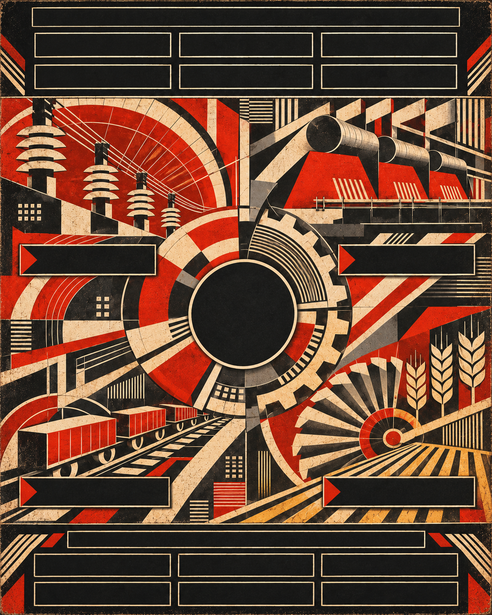
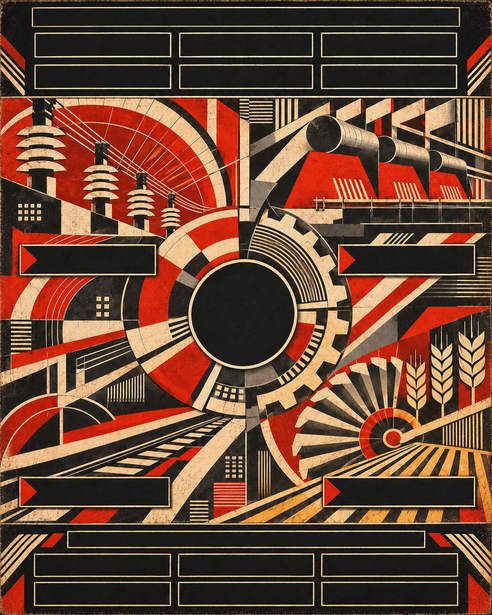
Animate four constructivist project sectors with textured moving parts

Changed region(s): [[0.0, 0.6488, 0.4573, 0.8033]]

diff --git a/tools/preview_constructivist_dashboard.py b/tools/preview_constructivist_dashboard.py
@@ -3,12 +3,14 @@
 This is not an in-game screenshot. Runtime bindings live in the generated GUI.
 """
 import json,re,html,base64
+from functools import lru_cache
 from pathlib import Path
 from PIL import Image,ImageDraw
 from national_plan_catalog import ROOT
 from national_plan_dashboard import ART,P,LABELS,SECTOR_POS,REGION_NAMES
 from hoi4_bitmap_fonts import render,measure
 from build_constructivist_dashboard import indicator, foreground, WHEEL_XY, PREVIEW_FRAMES
+from dashboard_sector_motion import MOTIONS,FRAMES
 
 OUT=ROOT/'output/constructivist_dashboard_20261112'
 COLOURS={'C':'#77c9db','Y':'#f0cb75','G':'#91ba80','R':'#ed543d','!':'#e3dfcf'}
@@ -16,6 +18,10 @@ VARS={'RUS_np_available':1248.50,'RUS_np_frozen':240,'RUS_np_income':1.28,'RUS_n
 for i in range(1,5):VARS.update({P+f'active_{i}':1,P+f'done_{i}':i+1})
 LOC={k:json.loads(v) for k,v in re.findall(r'^ ([\w.]+):0 (".*")$',(ROOT/'localisation/simp_chinese/RUS_national_plan_dashboard_l_simp_chinese.yml').read_text(encoding='utf-8-sig'),re.M)}
 HELPERS={'RUSNPScoreCaption':'一五计划分数','RUSNPScoreValue':'78.5','RUSNPStageCaption':'阶段 3','RUSNPRegionName':'全部地区','RUSNPSectorName':'全部工程'}
+
+@lru_cache(None)
+def atlas(name):
+    return Image.open(ROOT/ART/('sector_'+name+'.png')).convert('RGBA')
 
 def resolved(s):
     for k,v in HELPERS.items():s=s.replace('['+k+']',v)
@@ -31,6 +37,9 @@ def rich(im,x,y,text,font,w):
 def proof(frame=0):
     im=Image.new('RGBA',(504,620),(19,20,18,255))
     im.alpha_composite(Image.open(ROOT/ART/'background.png').convert('RGBA'),(6,0))
+    for name,(x,y,w,h,fps) in MOTIONS.items():
+        index=int(frame*fps/8)%FRAMES
+        im.alpha_composite(atlas(name).crop((index*w,0,(index+1)*w,h)),(x,y))
     im.alpha_composite(indicator('rotor',frame),WHEEL_XY)
     im.alpha_composite(foreground())
     d=ImageDraw.Draw(im)
@@ -55,6 +64,9 @@ def browser():
     s=['<!doctype html><html lang="zh-CN"><meta charset="utf-8"><meta name="viewport" content="width=device-width,initial-scale=1"><title>国家建设委员会 · 动态成品预览</title><style>',
        'body{margin:0;background:#101211;color:#e3dfcf;font-family:"Microsoft YaHei",sans-serif}main{width:504px;margin:20px auto}header{font-size:12px;color:#aaa;margin-bottom:10px;display:flex;align-items:center;gap:9px}select{background:#242722;color:#e3dfcf;padding:5px;border:1px solid #665f4c}.panel{position:relative;width:504px;height:620px;background:#141412;box-shadow:0 8px 50px #0008}.back{position:absolute;left:6px;top:0;width:492px;height:615px}.text{position:absolute;text-align:center;line-height:18px;pointer-events:none;white-space:nowrap;text-shadow:1px 1px #000}.hit{position:absolute;border:0;background:transparent;color:inherit;cursor:pointer;z-index:3}.hit:hover,.hit:focus-visible{background:#e1cb9d18;outline:1px solid #e1cb9d88}.hit.on{box-shadow:inset 0 -2px #df371d}.anim{position:absolute;pointer-events:none;animation:turn 24s linear infinite}.still{animation:none}#all:hover,#all:active,#all:focus-visible{background:transparent;outline:none;box-shadow:none}.pip{position:absolute;top:365px;width:6px;height:4px;background:#e1cb9d}@keyframes turn{to{transform:rotate(360deg)}}.ledger{position:absolute;z-index:10;left:36px;top:105px;width:432px;height:419px;box-sizing:border-box;background:#131412fc;border:2px solid #e1cb9d;padding:12px 25px;font-size:15px;line-height:21px}.ledger h3{font-size:16px;text-align:center;margin:0 0 13px;padding:0 0 12px;border-bottom:2px solid #df371d}.ledger button{display:block;width:136px;margin:10px auto 0;background:#282820;border:1px solid #e1cb9d;color:#e3dfcf;padding:3px;cursor:pointer}.ledger[hidden]{display:none}footer{font-size:12px;color:#b6ae9d;line-height:1.7;margin-top:10px}@media(max-width:530px){main{margin:10px auto;transform-origin:top left}}@media(prefers-reduced-motion:reduce){.anim{animation:none}}</style>',
        '<main><header>动态预览 · 演示数据 <label>状态 <select id="sample"><option value="1">建设进行中</option><option value="0">建设账本初建</option><option value="2">建设成果扩大</option></select></label></header><div class="panel" id="panel"><img class="back" src="../../gfx/interface/RUS_national_plan_dashboard/background.png" alt="构成主义国家建设界面">']
+    s.append('<style>.sectoranim{position:absolute;pointer-events:none;animation:sectorframes var(--duration) steps(64) infinite}.sectoranim.still{animation:none;background-position:0 0}.sectoranim.power.still{opacity:0}@keyframes sectorframes{to{background-position:var(--distance) 0}}@media(prefers-reduced-motion:reduce){.sectoranim{animation:none}}</style>')
+    for i,(name,(x,y,w,h,fps)) in enumerate(MOTIONS.items(),1):
+        s.append(f'<div class="sectoranim {"power" if i==1 else ""}" id="anim-sector-{i}" style="left:{x}px;top:{y}px;width:{w}px;height:{h}px;background-image:url(../../{ART}/sector_{name}.png);background-size:{w*FRAMES}px {h}px;--distance:-{w*FRAMES}px;--duration:{FRAMES/fps}s"></div>')
     s.append(f'<img class="anim" id="anim-rotor" src="../../{ART}/wheel.png" style="left:136px;top:202px;width:224px;height:224px" alt="旋转传动轮">')
     s.append(f'<img src="../../{ART}/foreground.png" style="position:absolute;left:0;top:0;width:504px;height:620px;pointer-events:none" alt="固定分数盘">')
     for i in range(6):s.append(f'<i class="pip" id="pip-{i}" style="left:{216+i*11}px"></i>')
@@ -68,14 +80,14 @@ def browser():
     for i,name in enumerate(REGION_NAMES):button(f'r-{i+1}',41+i%3*144,554+i//3*29,136,24,'筛选'+name)
     s.append('<section class="ledger" id="ledger" hidden><h3>国家建设账本</h3><div id="ledger-content"></div><button id="close">收起账本</button></section></div><footer id="filter-note">点击四个产业标牌或下方地区切换筛选；点击中央分数恢复全部。<br>点击标题展开账本。此页用于查看动效与排版，游戏内显示真实存档数值。</footer></main>')
     s.append('<script>const templates='+json.dumps({r[0]:LOC[r[6]] for r in LABELS},ensure_ascii=False)+';const ledgerTemplate='+json.dumps(LOC[P+'ledger_body'],ensure_ascii=False)+';const base='+json.dumps(VARS)+';const regions='+json.dumps(['全部地区']+REGION_NAMES,ensure_ascii=False)+';const sectors='+json.dumps(['全部工程']+[LOC[P+f'sector_{i}'] for i in range(1,5)],ensure_ascii=False)+';')
-    s.append(r'''let region=0,sector=0,state=1;const el=id=>document.getElementById(id);function formatted(s,v){s=s.replace(/\[RUSNPScoreCaption\]/g,state?'一五计划分数':'预备建设分数').replace(/\[RUSNPScoreValue\]/g,(state?v.RUS_first_five_year_plan_score:0).toFixed(1)).replace(/\[RUSNPStageCaption\]/g,state?'阶段 '+v.RUS_first_five_year_plan_stage:'计划未启动').replace(/\[RUSNPRegionName\]/g,regions[region]).replace(/\[RUSNPSectorName\]/g,sectors[sector]);s=s.replace(/\[\?([\w]+)\|(%?)(\d+)\]/g,(_,k,p,n)=>((v[k]||0)*(p?100:1)).toFixed(+n)+(p?'%':''));return '<span>'+s.replace(/§([CYGR!])/g,(_,c)=>'</span><span style="color:'+({C:'#77c9db',Y:'#f0cb75',G:'#91ba80',R:'#ed543d','!':'#e3dfcf'}[c])+'">').replace(/\n/g,'<br>')+'</span>'}function update(){let v={...base};if(state===0)Object.assign(v,{RUS_np_available:1200,RUS_np_frozen:0,RUS_np_active:0,RUS_np_trains:0,RUS_np_rail_display:0,RUS_np_spent:0,RUS_np_free_slots:7,RUS_first_five_year_plan_score:0,RUS_first_five_year_plan_stage:0});if(state===2)Object.assign(v,{RUS_np_available:2634.75,RUS_np_frozen:420,RUS_np_active:6,RUS_np_trains:90,RUS_np_rail_display:2.5,RUS_np_spent:1480,RUS_np_free_slots:1,RUS_first_five_year_plan_score:136.5,RUS_first_five_year_plan_stage:5});for(let i=1;i<=4;i++){v['RUS_np_ui_active_'+i]=state?(region?(i===((region-1)%4+1)?1:0):(state===2&&i<3?2:1)):0;v['RUS_np_ui_done_'+i]=state?(region?i:i+1+(state===2?3:0)):0;el('s-'+i).classList.toggle('on',sector===i);el('s-'+i).setAttribute('aria-pressed',sector===i)}for(const [k,t] of Object.entries(templates))el(k).innerHTML=formatted(t,v);for(let i=1;i<=6;i++){el('r-'+i).classList.toggle('on',region===i);el('r-'+i).setAttribute('aria-pressed',region===i);el('pip-'+(i-1)).style.display=i<=v.RUS_first_five_year_plan_stage?'block':'none'}el('anim-rotor').classList.toggle('still',!state);el('ledger-content').innerHTML=formatted(ledgerTemplate,v)}el('ledger-toggle').onclick=()=>el('ledger').hidden=!el('ledger').hidden;el('close').onclick=()=>el('ledger').hidden=true;el('all').onclick=()=>{region=sector=0;update()};for(let i=1;i<=6;i++)el('r-'+i).onclick=()=>{region=region===i?0:i;update()};for(let i=1;i<=4;i++)el('s-'+i).onclick=()=>{sector=sector===i?0:i;update()};el('sample').onchange=e=>{state=+e.target.value;update()};update();</script></html>''')
+    s.append(r'''let region=0,sector=0,state=1;const el=id=>document.getElementById(id);function formatted(s,v){s=s.replace(/\[RUSNPScoreCaption\]/g,state?'一五计划分数':'预备建设分数').replace(/\[RUSNPScoreValue\]/g,(state?v.RUS_first_five_year_plan_score:0).toFixed(1)).replace(/\[RUSNPStageCaption\]/g,state?'阶段 '+v.RUS_first_five_year_plan_stage:'计划未启动').replace(/\[RUSNPRegionName\]/g,regions[region]).replace(/\[RUSNPSectorName\]/g,sectors[sector]);s=s.replace(/\[\?([\w]+)\|(%?)(\d+)\]/g,(_,k,p,n)=>((v[k]||0)*(p?100:1)).toFixed(+n)+(p?'%':''));return '<span>'+s.replace(/§([CYGR!])/g,(_,c)=>'</span><span style="color:'+({C:'#77c9db',Y:'#f0cb75',G:'#91ba80',R:'#ed543d','!':'#e3dfcf'}[c])+'">').replace(/\n/g,'<br>')+'</span>'}function update(){let v={...base};if(state===0)Object.assign(v,{RUS_np_available:1200,RUS_np_frozen:0,RUS_np_active:0,RUS_np_trains:0,RUS_np_rail_display:0,RUS_np_spent:0,RUS_np_free_slots:7,RUS_first_five_year_plan_score:0,RUS_first_five_year_plan_stage:0});if(state===2)Object.assign(v,{RUS_np_available:2634.75,RUS_np_frozen:420,RUS_np_active:6,RUS_np_trains:90,RUS_np_rail_display:2.5,RUS_np_spent:1480,RUS_np_free_slots:1,RUS_first_five_year_plan_score:136.5,RUS_first_five_year_plan_stage:5});for(let i=1;i<=4;i++){v['RUS_np_ui_active_'+i]=state?(region?(i===((region-1)%4+1)?1:0):(state===2&&i<3?2:1)):0;v['RUS_np_ui_done_'+i]=state?(region?i:i+1+(state===2?3:0)):0;el('s-'+i).classList.toggle('on',sector===i);el('s-'+i).setAttribute('aria-pressed',sector===i)}for(const [k,t] of Object.entries(templates))el(k).innerHTML=formatted(t,v);for(let i=1;i<=6;i++){el('r-'+i).classList.toggle('on',region===i);el('r-'+i).setAttribute('aria-pressed',region===i);el('pip-'+(i-1)).style.display=i<=v.RUS_first_five_year_plan_stage?'block':'none'}el('anim-rotor').classList.toggle('still',!state);for(let i=1;i<=4;i++)el('anim-sector-'+i).classList.toggle('still',!v['RUS_np_ui_active_'+i]);el('ledger-content').innerHTML=formatted(ledgerTemplate,v)}el('ledger-toggle').onclick=()=>el('ledger').hidden=!el('ledger').hidden;el('close').onclick=()=>el('ledger').hidden=true;el('all').onclick=()=>{region=sector=0;update()};for(let i=1;i<=6;i++)el('r-'+i).onclick=()=>{region=region===i?0:i;update()};for(let i=1;i<=4;i++)el('s-'+i).onclick=()=>{sector=sector===i?0:i;update()};el('sample').onchange=e=>{state=+e.target.value;update()};update();</script></html>''')
     (OUT/'interactive.html').write_text('\n'.join(s),encoding='utf8')
 
 if __name__=='__main__':
     OUT.mkdir(parents=True,exist_ok=True)
     im=proof();im.save(OUT/'finished_native.png');im.resize((1008,1240),Image.Resampling.NEAREST).save(OUT/'finished_2x.png')
-    frames=[proof(f) for f in range(PREVIEW_FRAMES)]
+    frames=[proof(f/2) for f in range(PREVIEW_FRAMES*2)]
     palette=frames[0].quantize(colors=256)
     frames=[frame.quantize(palette=palette,dither=Image.Dither.NONE) for frame in frames]
-    frames[0].save(OUT/'animated_preview.gif',save_all=True,append_images=frames[1:],duration=125,loop=0,optimize=True)
+    frames[0].save(OUT/'animated_preview.gif',save_all=True,append_images=frames[1:],duration=[60,60,60,70]*(len(frames)//4),loop=0,optimize=True)
     browser();print(OUT)

diff --git a/tools/dashboard_sector_motion.py b/tools/dashboard_sector_motion.py
@@ -1,0 +1,97 @@
+"""Animation packaging for ImageGen sector parts. No writes on import.
+
+Frame atlases use native frameAnimatedSpriteType; only visual state is read.
+Generated artwork remains untouched in sectors_v3. Transforms implement motion.
+"""
+from functools import lru_cache
+import math
+from PIL import Image, ImageDraw, ImageFilter
+from national_plan_catalog import ROOT
+
+SOURCE=ROOT/'tools/design/constructivist_dashboard_20261112'
+PARTS=SOURCE/'sectors_v3'
+FRAMES=64
+# x, y, width, height, fps. Keep every horizontal atlas below 16384 pixels.
+MOTIONS={
+ 'power_flow':(24,100,230,132,16),
+ 'rollers':(304,108,155,90,8),
+ 'freight':(6,360,248,120,16),
+ 'harvest':(352,390,92,92,8),
+}
+
+@lru_cache(None)
+def part(name):
+    with Image.open(PARTS/(name+'.png')) as im:img=im.convert('RGBA')
+    assert img.getchannel('A').getextrema()[0]==0,name
+    return img.crop(img.getchannel('A').getbbox())
+
+@lru_cache(None)
+def clean_background():
+    """Only adopt the generated empty-track patch; preserve every other pixel."""
+    original=Image.open(SOURCE/'backplate.png').convert('RGBA')
+    clean=Image.open(PARTS/'clean_track.png').convert('RGBA').resize(original.size,Image.Resampling.LANCZOS)
+    mask=Image.new('L',original.size)
+    d=ImageDraw.Draw(mask)
+    d.rectangle((20,910,518,1088),fill=255)
+    mask=mask.filter(ImageFilter.GaussianBlur(5))
+    # Labels and all artwork outside the train strip stay original.
+    merged=Image.composite(clean,original,mask)
+    return merged.resize((492,615),Image.Resampling.LANCZOS)
+
+@lru_cache(None)
+def freight_source():
+    sprite=part('wagon').rotate(5,resample=Image.Resampling.BICUBIC,expand=True)
+    return sprite.crop(sprite.getchannel('A').getbbox())
+
+def motion(name,frame):
+    x,y,w,h,_=MOTIONS[name]
+    t=(frame%FRAMES)/FRAMES
+    if name=='harvest':
+        # Rotate in the full-size artwork before resampling; no jagged pixel spin.
+        base=part('harvester').resize((352,352),Image.Resampling.LANCZOS)
+        layer=Image.new('RGBA',(368,368));layer.alpha_composite(base,(8,8))
+        return layer.rotate(-360*t,resample=Image.Resampling.BICUBIC).resize((w,h),Image.Resampling.LANCZOS)
+    im=Image.new('RGBA',(w,h))
+    if name=='rollers':
+        base=part('drum').resize((192,192),Image.Resampling.LANCZOS)
+        for cx,cy,ww,hh,phase in [(331,134,33,40,0),(388,161,24,29,.25),(441,179,17,21,.5)]:
+            rotated=base.rotate(-360*(t+phase),resample=Image.Resampling.BICUBIC)
+            cap=rotated.resize((ww*3,hh*3),Image.Resampling.LANCZOS).rotate(18,resample=Image.Resampling.BICUBIC,expand=True)
+            cap=cap.resize((round(cap.width/3),round(cap.height/3)),Image.Resampling.LANCZOS)
+            im.alpha_composite(cap,(round(cx-x-cap.width/2),round(cy-y-cap.height/2)))
+    elif name=='freight':
+        sprite=freight_source()
+        # Geometric spacing gives a continuous perspective train, one wagon
+        # replaces its predecessor per loop; offscreen entry/exit, no teleport.
+        for n in range(9,-3,-1):
+            scale=.62**(n-t)
+            width=round(145*scale)
+            if width<3 or width>650:continue
+            height=round(width*sprite.height/sprite.width)
+            car=sprite.resize((width,height),Image.Resampling.LANCZOS)
+            cx=254-185*scale;bottom=406+72*scale
+            im.alpha_composite(car,(round(cx-width/2)-x,round(bottom-height)-y))
+    elif name=='power_flow':
+        # Restrained highlights follow the printed wires, never neon globes.
+        layer=Image.new('RGBA',(w*3,h*3));d=ImageDraw.Draw(layer)
+        points=[(38,101),(102,160),(153,193),(212,211),(247,208)]
+        for wire in range(3):
+            pos=((t+wire*.19)%1)*4
+            for k in range(12):
+                u=pos-k*.022
+                if not 0<=u<4:continue
+                seg=int(u);f=u-seg;a,b=points[seg:seg+2]
+                px=a[0]+(b[0]-a[0])*f-x;py=a[1]+(b[1]-a[1])*f+wire*4-y
+                d.ellipse((px*3-1,py*3-1,px*3+2,py*3+2),fill=(242,211,161,round(205*(1-k/12))))
+        im=layer.resize((w,h),Image.Resampling.LANCZOS)
+    return im
+
+def export():
+    out={}
+    for name,(_,_,w,h,_) in MOTIONS.items():
+        assert w*FRAMES<=16384
+        atlas=Image.new('RGBA',(w*FRAMES,h))
+        for f in range(FRAMES):atlas.paste(motion(name,f),(f*w,0))
+        out['sector_'+name]=atlas
+        out['sector_'+name+'_idle']=motion(name,0) if name!='power_flow' else Image.new('RGBA',(w,h))
+    return out

diff --git a/tools/national_plan_dashboard.py b/tools/national_plan_dashboard.py
@@ -7,6 +7,7 @@ import json
 from hoi4_politics_blocks import parse
 from national_plan_catalog import ROOT, PROJECTS, REGIONS
 from national_plan import CAT, DEC, FX, b, sv, add, iff, ck
+from dashboard_sector_motion import MOTIONS, FRAMES
 
 P = 'RUS_np_ui_'
 ART = 'gfx/interface/RUS_national_plan_dashboard'
@@ -81,6 +82,9 @@ def augment(out):
         sprite('hit_'+name,'hit_'+name,3)
     sprite('wheel_static','wheel')
     sprite('foreground','foreground')
+    for name,(_,_,_,_,fps) in MOTIONS.items():
+        sprite('sector_'+name,'sector_'+name,FRAMES,True,fps)
+        sprite('sector_'+name+'_idle','sector_'+name+'_idle')
     # Continuous native UV rotation; retain original score face above it.
     # References: vanilla nationalfocusview.gfx, frontendmainview.gfx and
     # gfx/FX/sprite_animation.fxh (normal alpha blending).
@@ -100,6 +104,11 @@ def augment(out):
         name,x,y,w,h,font,key=row
         gui.append(f'instantTextBoxType = {{ name = "{name}" position = {{ x = {x} y = {y} }} font = "{font}" text = "{key}" maxWidth = {w} maxHeight = {h} format = center '+('pdx_tooltip = '+tooltip if tooltip else 'alwaystransparent = yes')+' }')
     icon('background',6,0,'background')
+    for i,(name,(x,y,_,_,_)) in enumerate(MOTIONS.items(),1):
+        icon(name+'_active',x,y,'sector_'+name)
+        icon(name+'_idle',x,y,'sector_'+name+'_idle')
+        triggers += [name+'_active_visible = { check_variable = { '+P+'active_'+str(i)+' > 0 } }',
+                     name+'_idle_visible = { NOT = { check_variable = { '+P+'active_'+str(i)+' > 0 } } }']
     icon('wheel_idle',136,202,'wheel_static')
     icon('wheel_active',136,202,'wheel_moving')
     triggers += ['wheel_active_visible = { check_variable = { RUS_np_active > 0 } }',

diff --git a/tools/test_national_plan_dashboard.py b/tools/test_national_plan_dashboard.py
@@ -66,11 +66,29 @@ class DashboardTests(unittest.TestCase):
                 self.assertEqual(animation.value('animationblendmode'),'"normal"')
             if path.endswith('hit_score.png'):
                 self.assertEqual(im.getchannel('A').getextrema(),(0,0))
+            if n.k=='frameAnimatedSpriteType':
+                self.assertEqual(frames,64)
+                self.assertEqual(n.value('looping'),'yes')
+                self.assertLessEqual(im.width,16384)
             im.close()
         loc=out['localisation/simp_chinese/RUS_national_plan_dashboard_l_simp_chinese.yml']
         for row in LABELS:self.assertIn(' '+row[6]+':0 ',loc)
         self.assertIn('RUS_first_five_year_plan_score|1',loc)
         self.assertIn('RUS_np_pending_plan_score|1',loc)
         self.assertEqual(out,render())
+
+    def test_sector_motion_only_runs_for_selected_regions_active_projects(self):
+        from dashboard_sector_motion import MOTIONS
+        node=parse(render()['common/scripted_guis/RUS_national_plan_dashboard.txt'])[0].v[0]
+        triggers={n.k:n for n in node.one('triggers').v}
+        m=Model();m.initialize()
+        for p in PROJECTS:
+            if p['region']==1:m.flags.add('RUS_np_'+p['key']+'_running')
+        for region in [0,1,2]:
+            m.vars['RUS_np_filter']=region;m.call('RUS_np_refresh')
+            for i,name in enumerate(MOTIONS,1):
+                active=m.vars.get(P+'active_'+str(i),0)>0
+                self.assertEqual(m.check(triggers[name+'_active_visible'].v),active)
+                self.assertEqual(m.check(triggers[name+'_idle_visible'].v),not active)
 
 if __name__=='__main__':unittest.main(verbosity=2)

diff --git a/tools/build_constructivist_dashboard.py b/tools/build_constructivist_dashboard.py
@@ -43,7 +43,9 @@ def indicator(name,f):
     return wheel().rotate(-360*f/PREVIEW_FRAMES,resample=Image.Resampling.BICUBIC)
 
 def export():
-    result={'background':Image.open(SOURCE).convert('RGBA').resize((492,615),Image.Resampling.LANCZOS)}
+    from dashboard_sector_motion import clean_background, export as sector_export
+    result={'background':clean_background()}
+    result.update(sector_export())
     result['wheel']=wheel()
     result['wheel_empty']=Image.new('RGBA',(WHEEL_SIZE,WHEEL_SIZE))
     mask=Image.new('RGBA',(WHEEL_SIZE,WHEEL_SIZE),'white');mask.putalpha(wheel().getchannel('A'))

diff --git a/MOD制作日志.md b/MOD制作日志.md
@@ -2,6 +2,12 @@
 
 最后更新：2026-11-12
 
+## 2026-11-12 — 四区域运动图层接入
+
+- 按用户“继续”要求实现电气、工业、交通、农业四区动画。内置ImageGen生成空轨道补全、完整车厢、滚筒端面、农业轮，原图/提示/尺寸归档sectors_v3。仅替换底图旧列车所在条带，其他构成主义图案与文字窗口沿用原画；技术打包实现透视缩放、旋转、透明前景及64帧循环。
+- 电气沿原电线低亮流动；工业三滚筒独立相位旋转；交通完整车厢向近处放大驶出，并由远处补入；农业轮缓慢转动、麦穗固定。四区读取现有当前地区在建数，分别切换动／静，中央轮面读取总工程数。无额外每日钩子、无工程奖励或成本改动。
+- 五项GUI定向回归、离线交互、36输出生成一致性及507脚本/334本地化结构检查通过。原生GUI/GFX检查绿色，脚本GUI仅已有刷新helper索引诊断；RHoi修复只dry-run。多相位合成图已检查，GIF使用实际运行图集；未游戏内实测。仅测试开发目录，未同步上传；fetch网络连接被重置，未推送GitHub。
+
 ## 2026-11-12 — 构成主义动效重做与中央点击框移除
 
 - 撤掉五组24帧的细环、闪烁块及假车厢叠层；内置ImageGen依据原画生成完整纹理传动轮，源图及完整提示归档motion_v2。运行时使用224×224单轮面和原生连续旋转，24秒一圈；无在建工程显示静止轮面，中央数值盘和产业标牌保持固定前景。原生实现参考nationalfocusview.gfx、frontendmainview.gfx和sprite_animation.fxh，无新增事件、每日运算或工程逻辑变化。

diff --git a/tools/design/constructivist_dashboard_20261112/README.md b/tools/design/constructivist_dashboard_20261112/README.md
@@ -11,3 +11,10 @@
 - 自动浏览器拒绝打开本地 file URL，未绕过。HTML交互仅以离线 Node DOM 模型检查；原生尺寸排版已目视检查，游戏内布局、点击即时刷新、动画播放仍需重启游戏实测。
 - RHoi整项目legacy验证300秒超时；定向GUI/GFX/本地化检查通过，脚本GUI仅有已核对存在的刷新helper索引诊断。项目结构扫描通过，修复试运行无红项、未写入。
 - 仅测试版开发目录；未同步上传目录、适配版或 Steam。
+
+## 四区域运动部件（2026-11-12）
+
+- `sectors_v3`保存内置ImageGen生成的空轨道补全、完整车厢、滚筒端面及农业轮；模型名未返回，完整逐图提示见prompts.json。只采用补全图中旧列车所在条带，其余背景沿用原画。
+- `dashboard_sector_motion.py`按原生64帧序列打包运动：电线低亮流动，三个倾斜滚筒端面转动，完整列车沿透视轨道放大前进，农业轮旋转。列车不是重复方块，农业轮不是统一光圈。每区按当前地区在建数切换动／静；无新增事件或每日调度。
+- 原生序列图宽均小于16384；只把部件所在局部区域打包，不将整屏复制64次。导出PNG总量约3.2MB（四条动画）；面板文字和中央点击区保持原样。HTML有独立四区状态，GIF以16fps的24秒完整周期展示（预览数据）。
+- 原生图元与结构检查通过；脚本GUI仍只有既有刷新helper未索引诊断。生成源和运行36输出一致。动画实际加载、循环及工程开始／结束切换仍需用户重启钢四测试。
